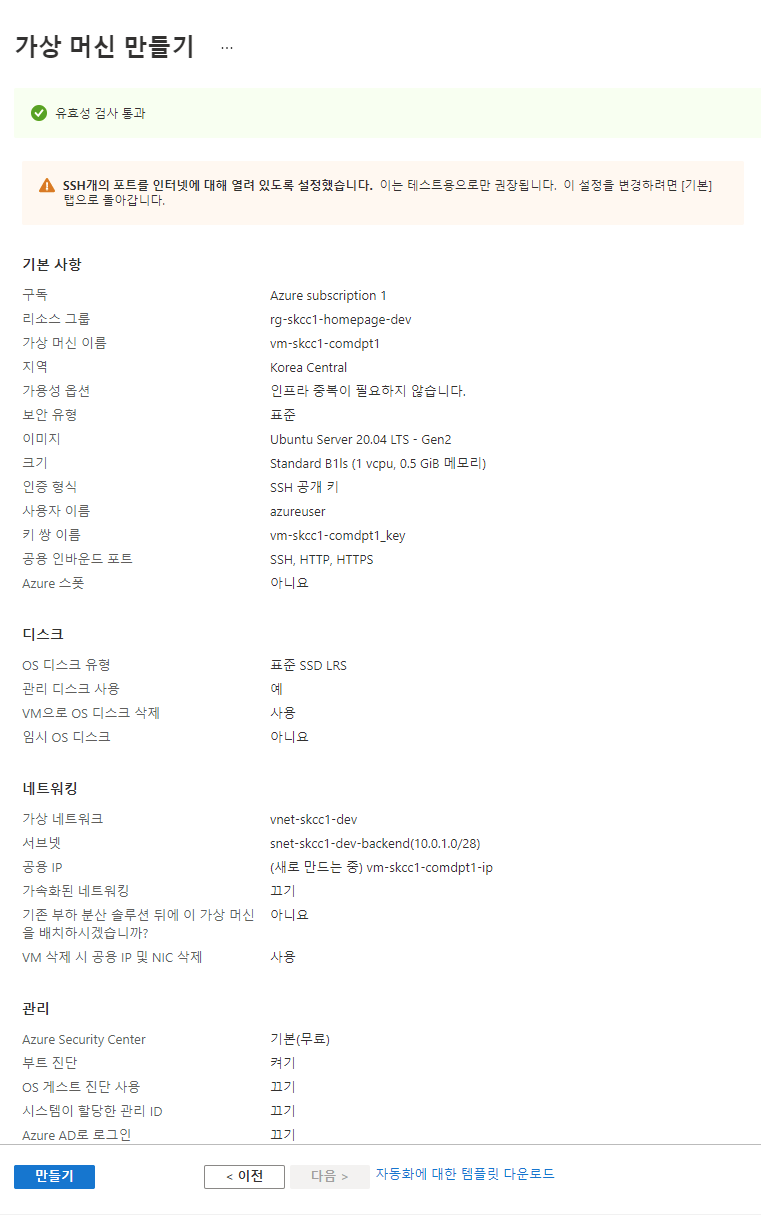
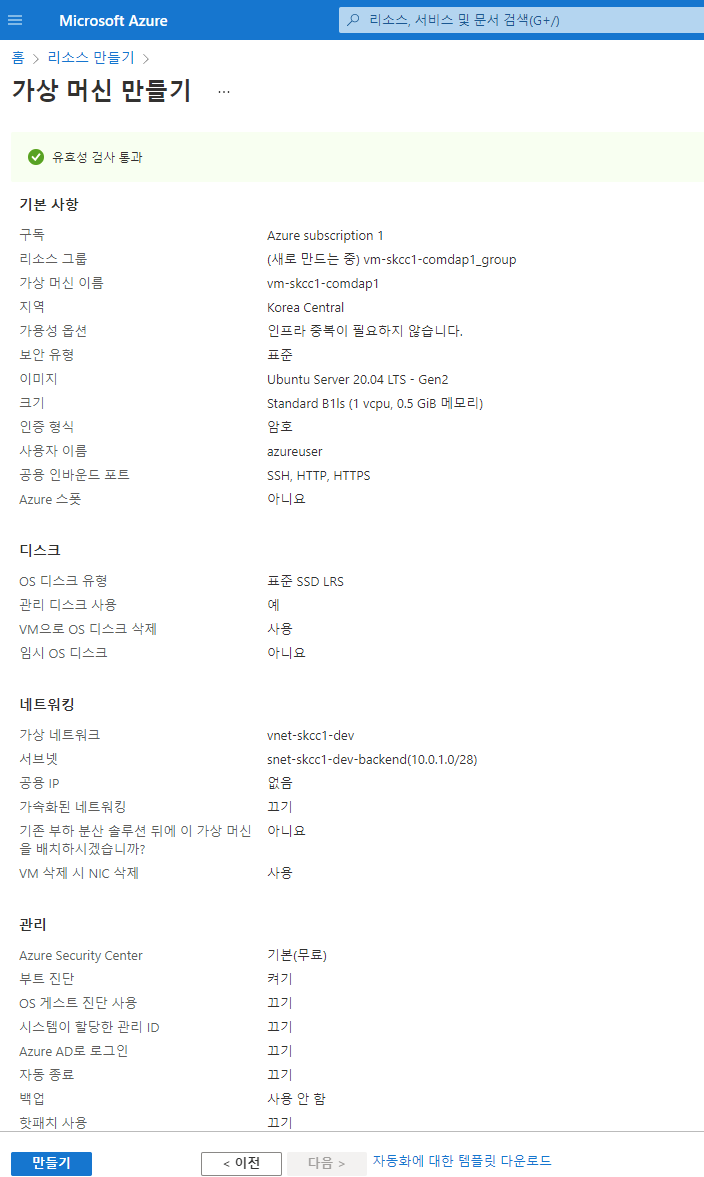
2022-02-06

diff --git a/1.IaaS/Tomcat.md b/1.IaaS/Tomcat.md
@@ -18,9 +18,9 @@ sudo apt-get install default-jdk
 sudo useradd -r -m -U -d /opt/tomcat -s /bin/false tomcat
 
 # Tomcat 설치
-wget http://www-eu.apache.org/dist/tomcat/tomcat-9/v9.0.27/bin/apache-tomcat-9.0.27.tar.gz -P /tmp
+wget https://dlcdn.apache.org/tomcat/tomcat-9/v9.0.58/bin/apache-tomcat-9.0.58.tar.gz -P /tmp
 sudo tar xf /tmp/apache-tomcat-9*.tar.gz -C /opt/tomcat
-sudo ln -s /opt/tomcat/apache-tomcat-9.0.27 /opt/tomcat/latest
+sudo ln -sf /opt/tomcat/apache-tomcat-9.0.58 /opt/tomcat/latest
 sudo chown -RH tomcat: /opt/tomcat/latest
 sudo sh -c 'chmod +x /opt/tomcat/latest/bin/*.sh'
 ```
@@ -30,7 +30,7 @@ sudo sh -c 'chmod +x /opt/tomcat/latest/bin/*.sh'
 - 서비스 파일 만들기
 ```
 # Systemd Unit File 생성
-sudo nano /etc/systemd/system/tomcat.service
+sudo vi /etc/systemd/system/tomcat.service
 ```
 
 

diff --git a/1.IaaS/AzureVirtualMachine.md b/1.IaaS/AzureVirtualMachine.md
@@ -60,11 +60,11 @@
 
 #### 검토 + 만들기
 
-- vm-skcc-comdpt1  
+##### vm-skcc-comdpt1  
 ![vm-skcc1-comdpt1-가상머신만들기.png](./img/vm-skcc1-comdpt1-가상머신만들기.png)  
 
-- vm-skcc1-comdap2
-![vm-skcc1-comdap2-가상머신만들기-검토+만들기.png](./img/vm-skcc1-comdap2-가상머신만들기-검토+만들기.png)  
+##### vm-skcc1-comdap2
+![vm-skcc1-comdap1-가상머신만들기.png](./img/vm-skcc1-comdap1-가상머신만들기.png)  
 
 ## Script 로 VM 생성시 사전 작업
 ### [NSG 만들기](./bash/create-nsg.sh)
